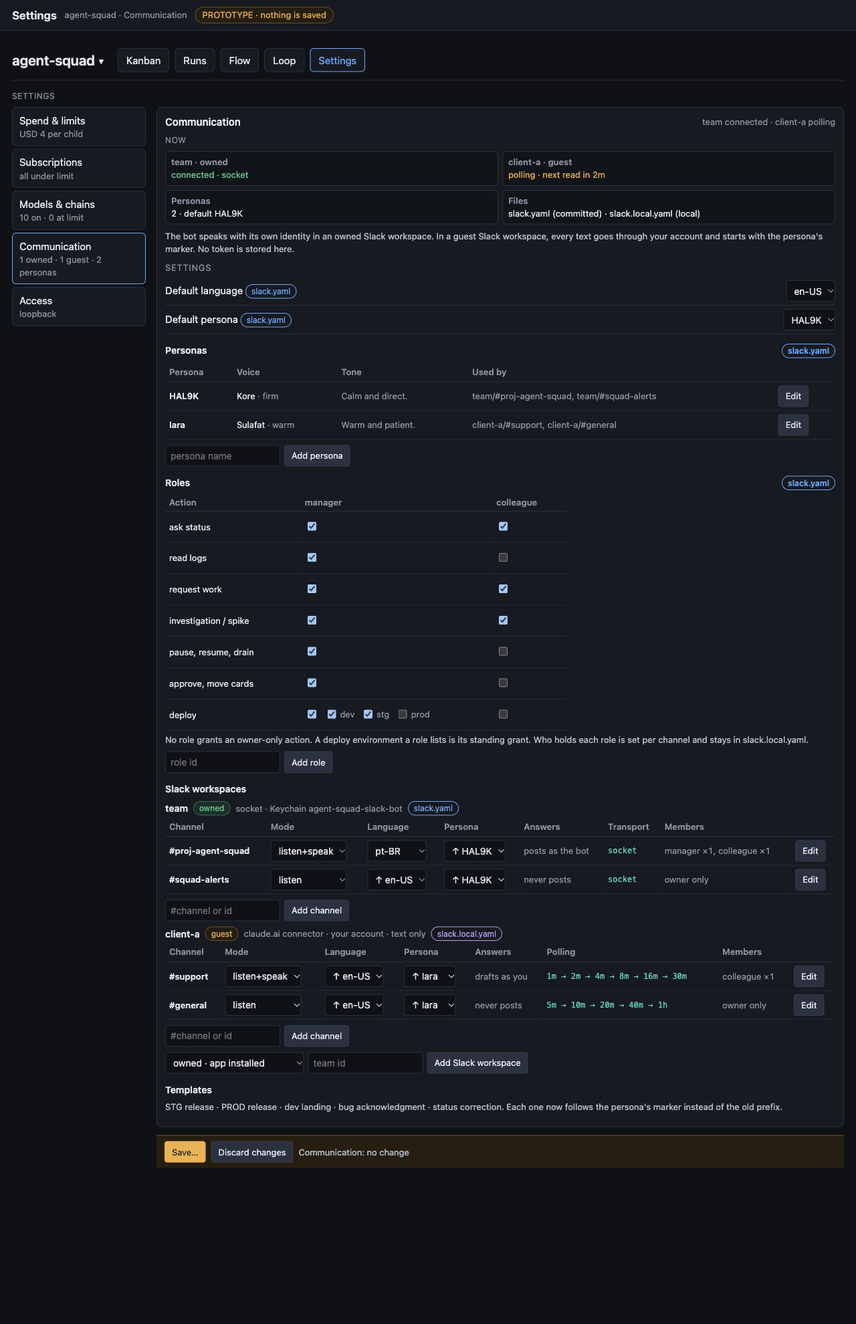
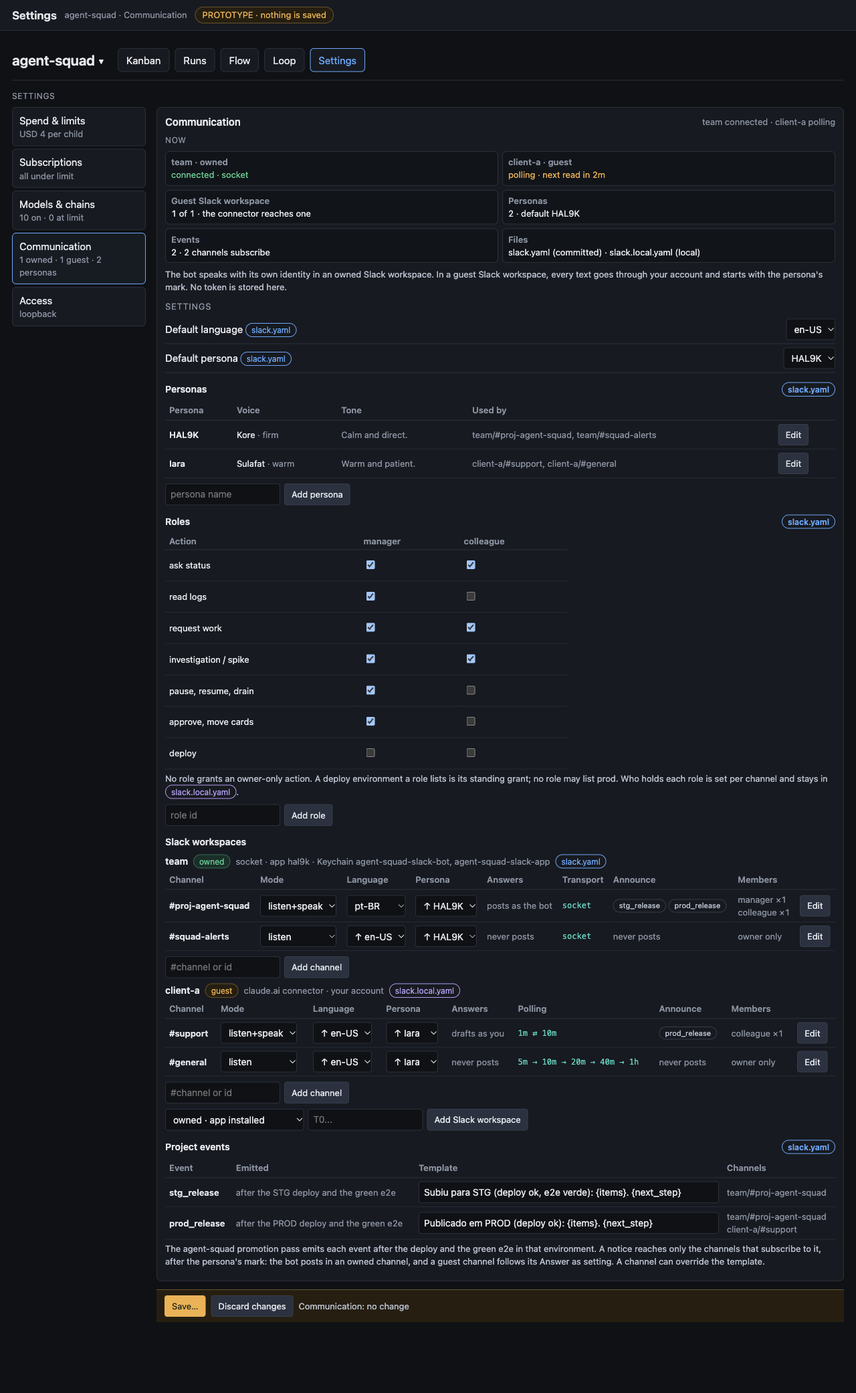
Match the Slack settings prototype to the revised spec (spec #2682)
Variant D now follows the spec's file example: the mark renders as a
bold first line with the body in italics, a Project events section lists
stg_release and prod_release with their templates, every channel shows
announce, and a guest channel shows speak, transcribe, voice_reply,
draft_for and a poll mode with only that mode's fields. A second guest
Slack workspace gets an inline refusal, and the Save diff shows the new
keys of both files. The four variant D renders are recaptured.

diff --git a/contrib/squad-goal/scripts/prototype-slack-settings.html b/contrib/squad-goal/scripts/prototype-slack-settings.html
@@ -75,6 +75,10 @@ td{padding:6px;border-bottom:1px solid var(--well-line);vertical-align:top}tr.ex
 .D .sbar{position:sticky;bottom:0;display:flex;gap:8px;align-items:center;flex-wrap:wrap;padding:8px 12px;margin-top:12px;background:var(--tint-warn);border-top:1px solid var(--tint-warn-line)}.D .sbar .save{background:var(--warn);color:var(--on-tone);border-color:var(--warn)}.D .sbar span{font-size:var(--fs-caption);color:var(--ink-soft)}
 .D dialog{position:fixed;top:70px;left:50%;transform:translateX(-50%);margin:0;z-index:20;box-shadow:0 10px 40px var(--shadow-deep);background:var(--panel);color:var(--fg);border:1px solid var(--edge);border-radius:var(--radius-lg);max-width:min(860px,94vw);width:860px}
 .D dialog pre{max-height:none;white-space:pre-wrap}.D .add{color:var(--ok)}.D .del{color:var(--err)}
+.D .refuse{color:var(--err);background:var(--tint-err,transparent);border:1px solid var(--err);border-radius:var(--radius-md);padding:6px 10px;margin:0 0 8px;font-size:var(--fs-caption)}
+.D .mk b{display:block}.D .mk i{display:block;color:var(--ink-body)}.D .bubble .m{margin-top:4px}.D code{font-family:ui-monospace,monospace;font-size:12px}
+.D table.chs td{white-space:nowrap}.D table.chs td.ann{white-space:normal}.D table.chs>tbody>tr>td>select{max-width:118px}.D code{white-space:nowrap}.D .nw{white-space:nowrap;display:block}
+.D input.dur{width:78px}.D .tg{display:inline-flex;gap:6px;align-items:center}.D td.ann .chip{font-size:11px;margin:1px 0}.D table.evs td:nth-child(3){width:46%}
 
 @media (max-width:820px){.A,.C{grid-template-columns:1fr}.tree,.C .files{position:static}.row{grid-template-columns:1fr}}
 </style></head><body>
@@ -93,15 +97,23 @@ const S={
   {id:"hal",name:"HAL9K",voice:"Kore",tone:"Calm and direct. Starts with the result, then the next step. Short sentences, no filler."},
   {id:"iara",name:"Iara",voice:"Sulafat",tone:"Warm and patient. Confirms what was asked before answering. Never technical jargon with a client."}],
  roles:[
-  {id:"manager",actions:["status","logs","request_work","request_investigation","loop_control","approve_and_move","deploy"],deploy:["dev","stg"]},
+  {id:"manager",actions:["status","logs","request_work","request_investigation","loop_control","approve_and_move"],deploy:[]},
   {id:"colleague",actions:["status","request_work","request_investigation"],deploy:[]}],
+ apps:[{id:"hal9k",keychain:{bot:"agent-squad-slack-bot",app:"agent-squad-slack-app"}}],
+ events:[
+  {id:"stg_release",template:"Subiu para STG (deploy ok, e2e verde): {items}. {next_step}"},
+  {id:"prod_release",template:"Publicado em PROD (deploy ok): {items}. {next_step}"}],
  workspaces:[
-  {id:"T0TEAM0001",label:"team",cls:"owned",secret:"agent-squad-slack-bot",language:"",persona:"",channels:[
-    {id:"C0PROJ0001",name:"proj-agent-squad",mode:"listen+speak",language:"pt-BR",persona:"",members:{manager:["U0OWNER001"],colleague:["U0PEER0001"]}},
-    {id:"C0ALERT001",name:"squad-alerts",mode:"listen",language:"",persona:"",members:{}}]},
+  {id:"T0TEAM0001",label:"team",cls:"owned",app:"hal9k",secret:"agent-squad-slack-bot",language:"",persona:"",channels:[
+    {id:"C0PROJ0001",name:"proj-agent-squad",mode:"listen+speak",language:"pt-BR",persona:"",announce:["stg_release","prod_release"],members:{manager:["U0OWNER001"],colleague:["U0PEER0001"]}},
+    {id:"C0ALERT001",name:"squad-alerts",mode:"listen",language:"",persona:"",announce:[],members:{}}]},
   {id:"T0CLIENT01",label:"client-a",cls:"guest",language:"en-US",persona:"iara",channels:[
-    {id:"C0CLISUP01",name:"support",mode:"listen+speak",language:"",persona:"",speak:"draft",poll:{floor:60,ceiling:1800,factor:2,idle:600,thread_open:1800},members:{colleague:["U0CLIENT01"]}},
-    {id:"C0CLIGEN01",name:"general",mode:"listen",language:"",persona:"",poll:{floor:300,ceiling:3600,factor:2,idle:900,thread_open:1800},members:{}}]}]
+    {id:"C0CLISUP01",name:"support",mode:"listen+speak",language:"",persona:"",speak:"draft",transcribe:"local",voice_reply:false,draft_for:["U0CLIENT02"],announce:["prod_release"],
+     pd:{mode:"two_state",fast:"1m",slow:"10m",quiet_after:"10m",floor:"1m",ceiling:"30m",factor:2,idle_window:"10m",thread_open:"30m"},
+     poll:{floor:60,ceiling:1800,factor:2,idle:600,thread_open:1800},members:{colleague:["U0CLIENT01"]}},
+    {id:"C0CLIGEN01",name:"general",mode:"listen",language:"",persona:"",speak:"draft",transcribe:"off",voice_reply:false,draft_for:[],announce:[],
+     pd:{mode:"exponential",fast:"1m",slow:"10m",quiet_after:"10m",floor:"5m",ceiling:"1h",factor:2,idle_window:"15m",thread_open:"30m"},
+     poll:{floor:300,ceiling:3600,factor:2,idle:900,thread_open:1800},members:{}}]}]
 };
 // ---------- resolution (what the policy module would answer) ----------
 const persona=id=>S.personas.find(p=>p.id===id);
@@ -197,28 +209,87 @@ const onEdit=e=>{const t=e.target;if(t.dataset.b&&t.dataset.ev===e.type)set(t.da
 app.addEventListener("input",onEdit);app.addEventListener("change",onEdit);
 app.addEventListener("click",e=>{const s=e.target.closest("[data-sel]");if(s){selA=s.dataset.sel;draw()}const tb=e.target.closest("[data-tab]");if(tb){tabB=tb.dataset.tab;draw()}const x=e.target.closest("[data-exp]");if(x){expB=expB===x.dataset.exp?"":x.dataset.exp;draw()}});
 // ---------- variant D: the hub's Settings pattern ----------
-let openD={persona:-1,channel:"",roles:true,dlg:false};const BASE={c:committed(),l:local()};
+let openD={persona:-1,channel:"",roles:true,dlg:false,wsErr:""};
+const EVWHEN={stg_release:"after the STG deploy and the green e2e",prod_release:"after the PROD deploy and the green e2e"};
+// yaml for D: the format of the spec's file example (flow maps and flow lists where the example uses them)
+const fl=a=>"["+a.map(q).join(", ")+"]";
+const fm=o=>"{"+Object.entries(o).map(([k,v])=>k+": "+(Array.isArray(v)?fl(v):q(v))).join(", ")+"}";
+const accepted=c=>S.roles.map(r=>r.id).filter(r=>c.members[r]&&c.members[r].length);
+function pollD(p){const keys=p.mode==="two_state"?["fast","slow","quiet_after"]:["floor","ceiling","factor","idle_window"];const o={mode:p.mode};keys.forEach(k=>o[k]=p[k]);o.thread_open=p.thread_open;return o}
+function chLinesD(w,c){const L=[`      - id: ${q(c.id)}`,`        name: ${q(c.name)}`,`        mode: ${q(c.mode)}`];
+ if(c.language)L.push(`        language: ${q(c.language)}`);if(c.persona)L.push(`        persona: ${q(c.persona)}`);
+ if(w.cls==="guest"&&c.mode==="listen+speak")L.push(`        speak: ${c.speak}`,`        transcribe: ${c.transcribe}`,`        voice_reply: ${c.voice_reply}`);
+ const r=accepted(c);if(r.length)L.push(`        roles: ${fl(r)}`);
+ if(w.cls==="guest")L.push(`        poll: ${fm(pollD(c.pd))}`);
+ if(c.announce&&c.announce.length)L.push(`        announce: ${fl(c.announce)}`);
+ if(w.cls==="guest"&&c.draft_for&&c.draft_for.length)L.push(`        draft_for: ${fl(c.draft_for)}`);return L}
+function wsLinesD(w){const L=[`  - id: ${q(w.id)}`,`    label: ${q(w.label)}`,`    class: ${w.cls}`];if(w.cls==="owned")L.push(`    app: ${q(w.app)}`);
+ if(w.language)L.push(`    language: ${q(w.language)}`);if(w.persona)L.push(`    persona: ${q(w.persona)}`);L.push("    channels:");w.channels.forEach(c=>L.push(...chLinesD(w,c)));return L}
+function committedD(){const L=["# docs/squad/slack.yaml · committed","version: 1","project:",`  language: ${S.project.language}`,`  persona: ${S.project.persona}`,"apps:"];
+ S.apps.forEach(a=>L.push(`  - id: ${q(a.id)}`,`    keychain: ${fm(a.keychain)}   # names in the Keychain, never tokens`));
+ L.push("personas:");S.personas.forEach(p=>L.push(`  - id: ${q(p.id)}`,`    name: ${q(p.name)}`,`    voice: ${q(p.voice)}`,`    tone: ${JSON.stringify(p.tone)}`));
+ L.push("events:");S.events.forEach(e=>L.push(`  - id: ${q(e.id)}`,`    template: ${JSON.stringify(e.template)}`));
+ L.push("roles:");S.roles.forEach(r=>{L.push(`  - id: ${q(r.id)}`,`    actions: ${fl(r.actions)}`);if(r.actions.includes("deploy"))L.push(`    deploy: ${fl(r.deploy)}`)});
+ L.push("workspaces:");S.workspaces.filter(w=>w.cls==="owned").forEach(w=>L.push(...wsLinesD(w)));return L.join("\n")}
+function localD(){const L=["# <profile folder>/agent-squad.slack.local.yaml · outside any repository","version: 1","workspaces:"];
+ S.workspaces.filter(w=>w.cls==="guest").forEach(w=>L.push(...wsLinesD(w)));L.push("members:");
+ S.workspaces.forEach(w=>w.channels.forEach(c=>S.roles.forEach(r=>{const u=c.members[r.id];if(u&&u.length)L.push("  - "+fm({workspace:w.id,channel:c.id,role:r.id,users:u}))})));return L.join("\n")}
+const BASE={c:committedD(),l:localD()};
 const sr=(l,c,cls)=>`<div class="setrow${cls?" "+cls:""}"><span class=sl>${l}</span><span class=sc>${c}</span></div>`;
 const fileChip=f=>f==="c"?`<span class="chip commit">slack.yaml</span>`:`<span class="chip local">slack.local.yaml</span>`;
+const fileOnly=`<span class="chip local">slack.local.yaml only</span>`;
 function lineDiff(a,b){const A=a.split("\n"),B=b.split("\n");const out=[];const sa=new Set(A),sb=new Set(B);A.forEach(x=>{if(!sb.has(x))out.push(`<span class=del>- ${esc(x)}</span>`)});B.forEach(x=>{if(!sa.has(x))out.push(`<span class=add>+ ${esc(x)}</span>`)});return out}
-function VariantD(){const nav=[["Spend & limits","USD 4 per child"],["Subscriptions","all under limit"],["Models & chains","10 on · 0 at limit"],["Communication",`${S.workspaces.filter(w=>w.cls==="owned").length} owned · ${S.workspaces.filter(w=>w.cls==="guest").length} guest · ${S.personas.length} personas`],["Access","loopback"]].map(([t,s])=>`<div class="${t==="Communication"?"on":""}">${t}<small>${esc(s)}</small></div>`).join("");
- const tiles=S.workspaces.map(w=>`<div class="tile ${w.cls==="owned"?"ok":"warn"}"><span class=tk>${esc(w.label)} · ${w.cls}</span><span class=tv>${w.cls==="owned"?"connected · socket":"polling · next read in 2m"}</span></div>`).join("")+`<div class=tile><span class=tk>Personas</span><span class=tv>${S.personas.length} · default ${esc(persona(S.project.persona).name)}</span></div><div class=tile><span class=tk>Files</span><span class=tv>slack.yaml (committed) · slack.local.yaml (local)</span></div>`;
- let h=`<div class=lead>Now</div><div class=now>${tiles}</div><p class=note>The bot speaks with its own identity in an owned Slack workspace. In a guest Slack workspace, every text goes through your account and starts with the persona's marker. No token is stored here.</p>`;
+const durS=v=>{const m=String(v).trim().match(/^(\d+(?:\.\d+)?)\s*([smh]?)$/);return m?Math.round(+m[1]*({s:1,m:60,h:3600}[m[2]||"s"])):NaN};
+function scheduleD(p){if(p.mode==="two_state")return `${p.fast} after a message → ${p.slow} after ${p.quiet_after} quiet`;
+ const f=durS(p.floor),c=durS(p.ceiling),k=Number(p.factor);if(!(f>0&&c>=f&&k>1))return "check the values";return schedule({floor:f,ceiling:c,factor:k})}
+const pollShort=p=>p.mode==="two_state"?`${p.fast} ⇄ ${p.slow}`:scheduleD(p);
+// the mark as Slack renders it: line 1 bold, body in italics
+const markBubble=(name,body)=>`<div class=mk><b>${esc(name)}'s Msg</b><i>${esc(body)}</i></div>`;
+const SAMPLE={"pt-BR":"Subiu para STG: o ajuste do relatório. Próximo passo: validar em PROD.","en-US":"The report fix is on STG. Next step: check it in PROD.","es-ES":"El ajuste del informe está en STG. Próximo paso: validarlo en PROD."};
+const annChips=c=>c.mode==="listen"?`<span class=m>never posts</span>`:((c.announce||[]).map(e=>`<span class=chip>${e}</span>`).join(" ")||`<span class=m>none</span>`);
+function chDetailD(w,wi,c,ci){const P=`workspaces.${wi}.channels.${ci}`,per=effPersona(w,c),f=w.cls==="owned"?"c":"l",G=w.cls==="guest",spk=c.mode==="listen+speak";let d="";
+ if(G&&spk){d+=sr(`Answer as ${fileChip(f)}<small>a direct send needs a grant for this channel</small>`,`<select ${bind(P+".speak")}>${opts([["draft","draft for your review"],["send","send directly"]],c.speak)}</select>`);
+  d+=sr(`Transcribe a clip ${fileChip(f)}<small>off by default · local runs on this machine · gemini sends the clip to Gemini</small>`,`<select ${bind(P+".transcribe")}>${opts([["off","off"],["local","local"],["gemini","gemini"]],c.transcribe)}</select>`);
+  d+=sr(`Voice reply ${fileChip(f)}<small>also a clip in the persona's voice, uploaded through the connector</small>`,`<label class=tg><input type=checkbox data-vr="${wi}.${ci}"${c.voice_reply?" checked":""}> ${c.voice_reply?"on":"off"}</label>`);
+  d+=sr(`Draft for ${fileOnly}<small>a reply to these people always leaves as a draft, even with a direct send</small>`,`<input data-dfor="${wi}.${ci}" value="${esc(c.draft_for.join(", "))}" placeholder="U0..., U0..." style="width:320px">`)}
+ if(G){const p=c.pd,PP=P+".pd";d+=sr(`Poll mode ${fileChip(f)}<small>two_state is the default</small>`,`<select ${bind(PP+".mode")}>${opts([["two_state","two_state"],["exponential","exponential"]],p.mode)}</select>`);
+  const inp=(k,lab,sm)=>sr(`${lab}<small>${sm}</small>`,`<input class=dur ${bind(PP+"."+k)} value="${esc(p[k])}">`);
+  if(p.mode==="two_state")d+=inp("fast","Fast","read every, after a message from another person")+inp("slow","Slow","read every, once the channel is quiet")+inp("quiet_after","Quiet after","time with no new message before it slows down");
+  else d+=inp("floor","Floor","first interval")+inp("ceiling","Ceiling","longest interval")+inp("factor","Factor","multiplies the interval at each idle window")+inp("idle_window","Idle window","quiet time before each step");
+  d+=inp("thread_open","Thread open","an agent thread newer than this keeps the channel fast")+sr("Schedule",`<span class=sched>${scheduleD(p)}</span>`)}
+ d+=sr(`Announce ${fileChip(f)}<small>${spk?"the events this channel subscribes to":"a listen channel never receives a post"}</small>`,`<span class=acts>${S.events.map(e=>`<label><input type=checkbox data-ann="${wi}.${ci}.${e.id}"${(c.announce||[]).includes(e.id)?" checked":""}${spk?"":" disabled"}> ${e.id}</label>`).join("")}</span>`);
+ d+=S.roles.map(r=>sr(`${r.id} ${fileChip("l")}<small>user ids of the members of this role</small>`,`<input data-mem="${wi}.${ci}.${r.id}" value="${esc((c.members[r.id]||[]).join(", "))}" placeholder="U0..., U0..." style="width:320px">`)).join("");
+ d+=sr("Anyone not listed","data, never a command");
+ d+=sr("Preview",`<div class=bubble style="text-align:left;width:360px">${!spk?`<span class=m>listen only: the agent reads, never posts here</span>`:(G?markBubble(per.name,SAMPLE[effLang(w,c)]):`<b>${esc(per.name)}</b> <span class=chip>APP</span><div>${esc(SAMPLE[effLang(w,c)])}</div>`)+`<div class=m>${effLang(w,c)} · ${esc(per.tone.split(".")[0])}</div>`+(G?`<div class=m>${c.voice_reply?`voice: ${per.voice} clip follows, its comment carries the mark`:"text only"}${c.speak==="draft"?" · leaves as a draft":""}</div>`:`<div class=m>voice: ${per.voice} clip follows the text</div>`)}</div>`);
+ return d}
+function VariantD(){const nG=S.workspaces.filter(w=>w.cls==="guest").length;
+ const nav=[["Spend & limits","USD 4 per child"],["Subscriptions","all under limit"],["Models & chains","10 on · 0 at limit"],["Communication",`${S.workspaces.filter(w=>w.cls==="owned").length} owned · ${nG} guest · ${S.personas.length} personas`],["Access","loopback"]].map(([t,s])=>`<div class="${t==="Communication"?"on":""}">${t}<small>${esc(s)}</small></div>`).join("");
+ const subs=S.workspaces.reduce((n,w)=>n+w.channels.filter(c=>c.mode==="listen+speak"&&c.announce&&c.announce.length).length,0);
+ const tiles=S.workspaces.map(w=>`<div class="tile ${w.cls==="owned"?"ok":"warn"}"><span class=tk>${esc(w.label)} · ${w.cls}</span><span class=tv>${w.cls==="owned"?"connected · socket":"polling · next read in 2m"}</span></div>`).join("")+`<div class=tile><span class=tk>Guest Slack workspace</span><span class=tv>${nG} of 1 · the connector reaches one</span></div><div class=tile><span class=tk>Personas</span><span class=tv>${S.personas.length} · default ${esc(persona(S.project.persona).name)}</span></div><div class=tile><span class=tk>Events</span><span class=tv>${S.events.length} · ${subs} channels subscribe</span></div><div class=tile><span class=tk>Files</span><span class=tv>slack.yaml (committed) · slack.local.yaml (local)</span></div>`;
+ let h=`<div class=lead>Now</div><div class=now>${tiles}</div><p class=note>The bot speaks with its own identity in an owned Slack workspace. In a guest Slack workspace, every text goes through your account and starts with the persona's mark. No token is stored here.</p>`;
  h+=`<div class=blkh>Settings</div>`+sr(`Default language ${fileChip("c")}`,`<select ${bind("project.language")}>${opts(LANGS,S.project.language)}</select>`)+sr(`Default persona ${fileChip("c")}`,`<select ${bind("project.persona")}>${opts(pOpts(),S.project.persona)}</select>`);
  // personas
- h+=`<h4>Personas ${fileChip("c")}</h4><table><tr><th>Persona</th><th>Voice</th><th>Tone</th><th>Used by</th><th></th></tr>${S.personas.map((p,i)=>`<tr><td><b>${esc(p.name)}</b></td><td>${p.voice} <span class=m>· ${VOICES[p.voice]}</span></td><td class=m>${esc(p.tone.split(".")[0])}.</td><td class=m>${esc(usedBy(p.id))||"no channel"}</td><td><button data-dp="${i}">${openD.persona===i?"Close":"Edit"}</button></td></tr>${openD.persona===i?`<tr><td colspan=5><div class=detail>${sr("Name",`<input ${bind(`personas.${i}.name`,"input")} value="${esc(p.name)}">`)}${sr("Voice <small>a Gemini TTS voice; the sample is generated once per voice and tone, then cached</small>",`<select ${bind(`personas.${i}.voice`)}>${opts(Object.keys(VOICES).map(v=>[v,v+" · "+VOICES[v]]),p.voice)}</select> <button>▶ Sample</button>`)}${sr("Tone <small>guides the text and the speaking style; up to 300 characters</small>",`<textarea ${bind(`personas.${i}.tone`,"input")} style="width:420px">${esc(p.tone)}</textarea>`,"")}${sr("Marker <small>first line of every text sent through your account; cannot be turned off</small>",`<span class=marker>_${esc(p.name)}'s Msg_</span>`)}${sr("Bot name <small>in an owned Slack workspace (chat:write.customize)</small>",`<b>${esc(p.name)}</b> <span class=chip>APP</span>`)}</div></td></tr>`:""}`).join("")}</table><div class=addrow><input placeholder="persona name"><button>Add persona</button></div>`;
+ h+=`<h4>Personas ${fileChip("c")}</h4><table><tr><th>Persona</th><th>Voice</th><th>Tone</th><th>Used by</th><th></th></tr>${S.personas.map((p,i)=>`<tr><td><b>${esc(p.name)}</b></td><td>${p.voice} <span class=m>· ${VOICES[p.voice]}</span></td><td class=m>${esc(p.tone.split(".")[0])}.</td><td class=m>${esc(usedBy(p.id))||"no channel"}</td><td><button data-dp="${i}">${openD.persona===i?"Close":"Edit"}</button></td></tr>${openD.persona===i?`<tr><td colspan=5><div class=detail>${sr("Name <small>letters, digits, space, period, hyphen and underscore; up to 32 characters</small>",`<input ${bind(`personas.${i}.name`,"input")} value="${esc(p.name)}">`)}${sr("Voice <small>a Gemini TTS voice; the sample is generated once per voice and tone, then cached</small>",`<select ${bind(`personas.${i}.voice`)}>${opts(Object.keys(VOICES).map(v=>[v,v+" · "+VOICES[v]]),p.voice)}</select> <button>▶ Sample</button>`)}${sr("Tone <small>guides the text and the speaking style; up to 300 characters</small>",`<textarea ${bind(`personas.${i}.tone`,"input")} style="width:420px">${esc(p.tone)}</textarea>`,"")}${sr(`Mark <small>first line of every text sent through your account; cannot be turned off. Slack source: <code>*${esc(p.name)}'s Msg*</code>, then the body in italics</small>`,`<div class=bubble style="text-align:left;width:360px">${markBubble(p.name,SAMPLE["en-US"])}</div>`)}${sr("Bot name <small>in an owned Slack workspace (chat:write.customize)</small>",`<b>${esc(p.name)}</b> <span class=chip>APP</span>`)}</div></td></tr>`:""}`).join("")}</table><div class=addrow><input placeholder="persona name"><button>Add persona</button></div>`;
  // roles
- h+=`<h4>Roles ${fileChip("c")}</h4><table class=roles><tr><th>Action</th>${S.roles.map(r=>`<th>${r.id}</th>`).join("")}</tr>${Object.keys(ACTIONS).map(a=>`<tr><td>${ACTIONS[a]}</td>${S.roles.map((r,i)=>`<td><input type=checkbox data-role="${i}" data-act="${a}"${r.actions.includes(a)?" checked":""}>${a==="deploy"&&r.actions.includes("deploy")?" "+ENVS.map(e=>`<label class=m><input type=checkbox data-role="${i}" data-env="${e}"${r.deploy.includes(e)?" checked":""}>${e}</label>`).join(" "):""}</td>`).join("")}</tr>`).join("")}</table><p class=note>No role grants an owner-only action. A deploy environment a role lists is its standing grant. Who holds each role is set per channel and stays in slack.local.yaml.</p><div class=addrow><input placeholder="role id"><button>Add role</button></div>`;
+ h+=`<h4>Roles ${fileChip("c")}</h4><table class=roles><tr><th>Action</th>${S.roles.map(r=>`<th>${r.id}</th>`).join("")}</tr>${Object.keys(ACTIONS).map(a=>`<tr><td>${ACTIONS[a]}</td>${S.roles.map((r,i)=>`<td><input type=checkbox data-role="${i}" data-act="${a}"${r.actions.includes(a)?" checked":""}>${a==="deploy"&&r.actions.includes("deploy")?" "+ENVS.map(e=>`<label class=m><input type=checkbox data-role="${i}" data-env="${e}"${r.deploy.includes(e)?" checked":""}${e==="prod"?" disabled":""}>${e}</label>`).join(" "):""}</td>`).join("")}</tr>`).join("")}</table><p class=note>No role grants an owner-only action. A deploy environment a role lists is its standing grant; no role may list prod. Who holds each role is set per channel and stays in ${fileChip("l")}.</p><div class=addrow><input placeholder="role id"><button>Add role</button></div>`;
  // slack workspaces
  h+=`<h4>Slack workspaces</h4>`;
- S.workspaces.forEach((w,wi)=>{h+=`<div class=sub><b>${esc(w.label)}</b><span class="chip ${w.cls}">${w.cls}</span><span class=m>${w.cls==="owned"?"socket · Keychain "+esc(w.secret):"claude.ai connector · your account · text only"}</span>${fileChip(w.cls==="owned"?"c":"l")}</div>
- <table><tr><th>Channel</th><th>Mode</th><th>Language</th><th>Persona</th><th>Answers</th><th>${w.cls==="guest"?"Polling":"Transport"}</th><th>Members</th><th></th></tr>${w.channels.map((c,ci)=>{const k=wi+":"+ci,P=`workspaces.${wi}.channels.${ci}`,per=effPersona(w,c);return `<tr><td><b>#${esc(c.name)}</b></td><td><select ${bind(P+".mode")}>${opts(["listen","listen+speak"],c.mode)}</select></td><td><select ${bind(P+".language")}>${opts(LANGS,c.language,"↑ "+(w.language||S.project.language))}</select></td><td><select ${bind(P+".persona")}>${opts(pOpts(),c.persona,"↑ "+effPersona(w,{persona:""}).name)}</select></td><td class=m>${replyPath(w,c)}</td><td class=sched>${w.cls==="guest"?schedule(c.poll):"socket"}</td><td class=m>${Object.entries(c.members).map(([r,u])=>r+" ×"+u.length).join(", ")||"owner only"}</td><td><button data-dc="${k}">${openD.channel===k?"Close":"Edit"}</button></td></tr>${openD.channel===k?`<tr><td colspan=8><div class=detail>${w.cls==="guest"&&c.mode==="listen+speak"?sr("Answer as <small>a direct send needs a grant for this channel</small>",`<select ${bind(P+".speak")}>${opts([["draft","draft for your review"],["send","send directly"]],c.speak)}</select>`):""}${w.cls==="guest"?sr("Read every <small>from the floor; held there while the agent's thread is open</small>",`<input type=number ${bind(P+".poll.floor")} value=${c.poll.floor}> s`)+sr("Up to, when quiet",`<input type=number ${bind(P+".poll.ceiling")} value=${c.poll.ceiling}> s`)+sr("Slow down",`× <input type=number step=0.5 ${bind(P+".poll.factor")} value=${c.poll.factor}> after <input type=number ${bind(P+".poll.idle")} value=${c.poll.idle}> s idle`)+sr("Thread stays open",`<input type=number ${bind(P+".poll.thread_open")} value=${c.poll.thread_open}> s`)+sr("Schedule",`<span class=sched>${schedule(c.poll)}</span>`):""}${S.roles.map(r=>sr(`${r.id} <small>user ids · slack.local.yaml</small>`,`<input data-mem="${wi}.${ci}.${r.id}" value="${esc((c.members[r.id]||[]).join(", "))}" placeholder="U0..., U0..." style="width:320px">`)).join("")}${sr("Anyone not listed","data, never a command")}${sr("Preview",`<div class=bubble style="text-align:left;min-width:320px">${c.mode==="listen"?`<span class=m>listen only: the agent reads, never posts here</span>`:(w.cls==="guest"?`<div class=marker>_${esc(per.name)}'s Msg_</div>`:`<b>${esc(per.name)}</b> <span class=chip>APP</span><br>`)+`<span class=m>[${effLang(w,c)} · ${esc(per.tone.split(".")[0])}]</span>`+(w.cls==="owned"?`<br><span class=m>voice: ${per.voice} clip follows the text</span>`:`<br><span class=m>text only; no voice through your account</span>`)}</div>`)}</div></td></tr>`:""}`}).join("")}</table><div class=addrow><input placeholder="#channel or id"><button>Add channel</button></div>`});
- h+=`<div class=addrow><select><option>owned · app installed</option><option>guest · claude.ai connector</option></select><input placeholder="team id"><button>Add Slack workspace</button></div>`;
- h+=`<h4>Templates</h4><p class=note>STG release · PROD release · dev landing · bug acknowledgment · status correction. Each one now follows the persona's marker instead of the old prefix.</p>`;
- const dc=lineDiff(BASE.c,committed()),dl=lineDiff(BASE.l,local()),n=dc.length+dl.length;
- const bar=`<div class=sbar><button class=save data-dsave>Save…</button><button data-dreset>Discard changes</button><span>${n?`Communication: ${dc.length?"slack.yaml changed · commit it to apply":""}${dc.length&&dl.length?" · ":""}${dl.length?"slack.local.yaml changed":""}`:"Communication: no change"}</span></div>`;
- const dlg=openD.dlg?`<dialog open><b>Review the change</b><p class=note>slack.yaml is written to the project checkout. The voiced reads it only after you commit it. slack.local.yaml applies at once.</p><div class=blkh>slack.yaml · committed</div><pre>${dc.join("\n")||"no change"}</pre><div class=blkh>slack.local.yaml · gitignored</div><pre>${dl.join("\n")||"no change"}</pre><div class=addrow><button class=pri data-dclose>Write the files</button><button data-dclose>Cancel</button></div></dialog>`:"";
+ S.workspaces.forEach((w,wi)=>{const app=S.apps.find(a=>a.id===w.app);h+=`<div class=sub><b>${esc(w.label)}</b><span class="chip ${w.cls}">${w.cls}</span><span class=m>${w.cls==="owned"?`socket · app ${esc(w.app)} · Keychain ${esc(app.keychain.bot)}, ${esc(app.keychain.app)}`:"claude.ai connector · your account"}</span>${fileChip(w.cls==="owned"?"c":"l")}</div>
+ <table class=chs><tr><th>Channel</th><th>Mode</th><th>Language</th><th>Persona</th><th>Answers</th><th>${w.cls==="guest"?"Polling":"Transport"}</th><th>Announce</th><th>Members</th><th></th></tr>${w.channels.map((c,ci)=>{const k=wi+":"+ci,P=`workspaces.${wi}.channels.${ci}`;return `<tr><td><b>#${esc(c.name)}</b></td><td><select ${bind(P+".mode")}>${opts(["listen","listen+speak"],c.mode)}</select></td><td><select ${bind(P+".language")}>${opts(LANGS,c.language,"↑ "+(w.language||S.project.language))}</select></td><td><select ${bind(P+".persona")}>${opts(pOpts(),c.persona,"↑ "+effPersona(w,{persona:""}).name)}</select></td><td class=m>${replyPath(w,c)}</td><td class=sched>${w.cls==="guest"?pollShort(c.pd):"socket"}</td><td class=ann>${annChips(c)}</td><td class=m>${Object.entries(c.members).map(([r,u])=>`<span class=nw>${r} ×${u.length}</span>`).join("")||"owner only"}</td><td><button data-dc="${k}">${openD.channel===k?"Close":"Edit"}</button></td></tr>${openD.channel===k?`<tr><td colspan=9><div class=detail>${chDetailD(w,wi,c,ci)}</div></td></tr>`:""}`}).join("")}</table><div class=addrow><input placeholder="#channel or id"><button>Add channel</button></div>`});
+ h+=`<div class=addrow><select id=dwcls><option value=owned>owned · app installed</option><option value=guest${openD.wsErr?" selected":""}>guest · claude.ai connector</option></select><input id=dwid placeholder="T0..." value="${esc(openD.wsId||"")}"><button data-dadd>Add Slack workspace</button></div>${openD.wsErr?`<p class=refuse role=alert>${esc(openD.wsErr)}</p>`:""}`;
+ // project events
+ h+=`<h4>Project events ${fileChip("c")}</h4><table class=evs><tr><th>Event</th><th>Emitted</th><th>Template</th><th>Channels</th></tr>${S.events.map((e,i)=>`<tr><td><b>${e.id}</b></td><td class=m>${EVWHEN[e.id]||"by the promotion pass"}</td><td><input ${bind(`events.${i}.template`,"input")} value="${esc(e.template)}" style="width:100%"></td><td class=m>${S.workspaces.flatMap(w=>w.channels.filter(c=>c.mode==="listen+speak"&&(c.announce||[]).includes(e.id)).map(c=>`<span class=nw>${esc(w.label+"/#"+c.name)}</span>`)).join("")||"none"}</td></tr>`).join("")}</table><p class=note>The agent-squad promotion pass emits each event after the deploy and the green e2e in that environment. A notice reaches only the channels that subscribe to it, after the persona's mark: the bot posts in an owned channel, and a guest channel follows its Answer as setting. A channel can override the template.</p>`;
+ const dc=lineDiff(BASE.c,committedD()),dl=lineDiff(BASE.l,localD()),n=dc.length+dl.length;
+ const bar=`<div class=sbar><button class=save data-dsave>Save…</button><button data-dreset>Discard changes</button><span>${n?`Communication: ${dc.length?"slack.yaml changed · lands in dev after your approval":""}${dc.length&&dl.length?" · ":""}${dl.length?"slack.local.yaml changed · applies at once":""}`:"Communication: no change"}</span></div>`;
+ const dlg=openD.dlg?`<dialog open><b>Review the change</b><p class=note>The hub writes slack.yaml in its own worktree, commits it after your approval, and lands it in dev. slack.local.yaml lives in the profile folder and applies at once.</p><div class=blkh>slack.yaml · committed</div><pre>${dc.join("\n")||"no change"}</pre><div class=blkh>slack.local.yaml · profile folder, outside any repository</div><pre>${dl.join("\n")||"no change"}</pre><div class=addrow><button class=pri data-dclose>Approve and write</button><button data-dclose>Cancel</button></div></dialog>`:"";
  return `<div class=D><header class=ptop><b>agent-squad ▾</b><span>Kanban</span><span>Runs</span><span>Flow</span><span>Loop</span><span class=on>Settings</span></header><div class=lead>Settings</div><div class=swrap><nav class=snav>${nav}</nav><div><section class=sp><div class=sum>Communication<small>${S.workspaces.map(w=>w.label+(w.cls==="owned"?" connected":" polling")).join(" · ")}</small></div>${h}</section>${bar}</div></div>${dlg}</div>`}
-app.addEventListener("click",e=>{const p=e.target.closest("[data-dp]");if(p){openD.persona=openD.persona===+p.dataset.dp?-1:+p.dataset.dp;draw()}const c=e.target.closest("[data-dc]");if(c){openD.channel=openD.channel===c.dataset.dc?"":c.dataset.dc;draw()}if(e.target.closest("[data-dsave]")){openD.dlg=true;draw()}if(e.target.closest("[data-dclose]")){openD.dlg=false;draw()}if(e.target.closest("[data-dreset]"))location.reload()});
+app.addEventListener("click",e=>{const p=e.target.closest("[data-dp]");if(p){openD.persona=openD.persona===+p.dataset.dp?-1:+p.dataset.dp;draw()}const c=e.target.closest("[data-dc]");if(c){openD.channel=openD.channel===c.dataset.dc?"":c.dataset.dc;draw()}if(e.target.closest("[data-dsave]")){openD.dlg=true;draw()}if(e.target.closest("[data-dclose]")){openD.dlg=false;draw()}if(e.target.closest("[data-dreset]"))location.reload();
+ if(e.target.closest("[data-dadd]")){const cls=document.getElementById("dwcls").value,id=document.getElementById("dwid").value.trim();openD.wsId=id;
+  if(cls==="guest"&&S.workspaces.some(w=>w.cls==="guest")){openD.wsErr="The connector reaches one Slack workspace. Remove the current guest workspace first.";draw();return}
+  openD.wsErr="";openD.wsId="";S.workspaces.push({id:id||"T0NEW00001",label:"new",cls,app:"hal9k",secret:"agent-squad-slack-bot",language:"",persona:"",channels:[]});draw()}});
+app.addEventListener("change",e=>{const t=e.target;
+ if(t.dataset.ann){const [wi,ci,ev]=t.dataset.ann.split(".");const c=S.workspaces[wi].channels[ci];c.announce=t.checked?S.events.map(x=>x.id).filter(x=>x===ev||c.announce.includes(x)):c.announce.filter(x=>x!==ev);draw()}
+ if(t.dataset.vr){const [wi,ci]=t.dataset.vr.split(".");S.workspaces[wi].channels[ci].voice_reply=t.checked;draw()}
+ if(t.dataset.dfor){const [wi,ci]=t.dataset.dfor.split(".");S.workspaces[wi].channels[ci].draft_for=t.value.split(/[ ,]+/).filter(Boolean);draw()}});
 draw();
 </script></body></html>
